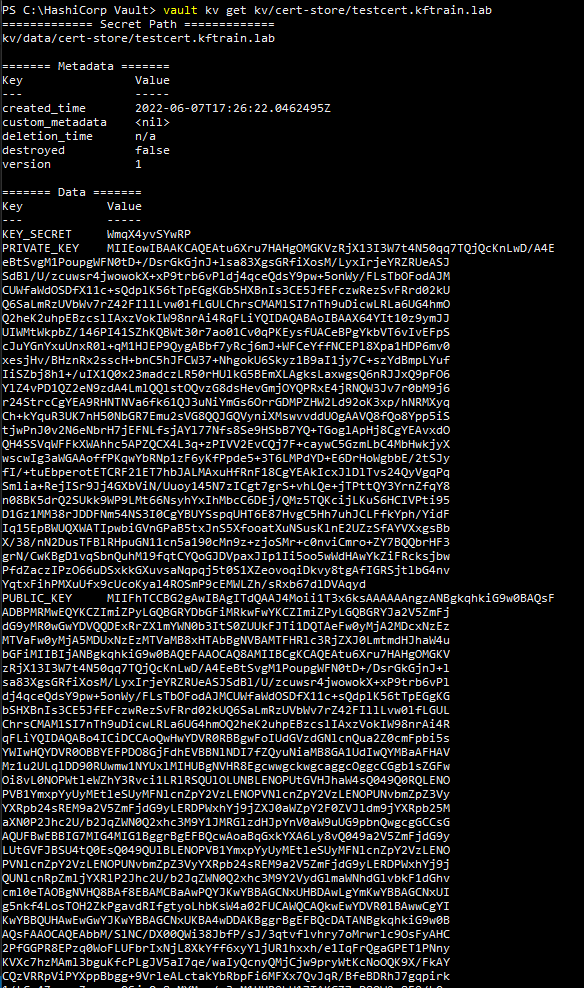
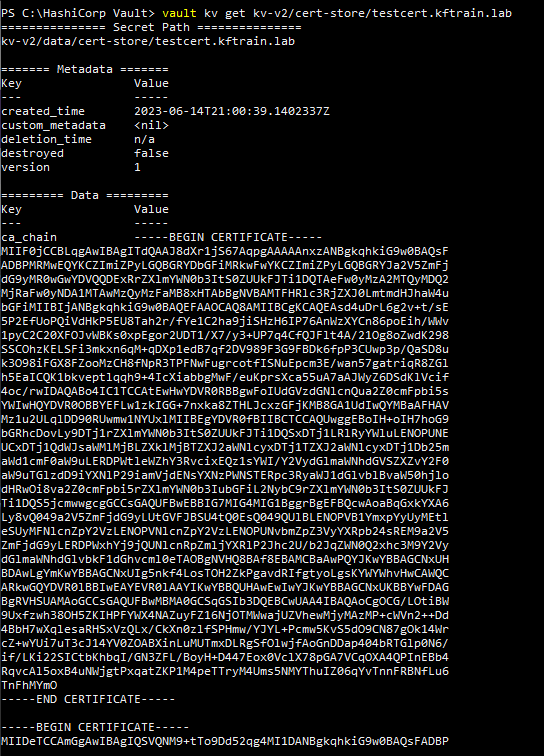
Updated property names.  now including full chain in ca_chain field.

diff --git a/hashicorp-vault-orchestrator/HcvKeyValueClient.cs b/hashicorp-vault-orchestrator/HcvKeyValueClient.cs
@@ -86,7 +86,7 @@ namespace Keyfactor.Extensions.Orchestrator.HashicorpVault
             Dictionary<string, object> certData;
             Secret<SecretData> res;
             var fullPath = _storePath + key;
-            var relativePath = fullPath.Substring(_storePath.Length);
+            //var relativePath = fullPath.Substring(_storePath.Length);
             try
             {
                 try
@@ -102,7 +102,7 @@ namespace Keyfactor.Extensions.Orchestrator.HashicorpVault
                 }
                 catch (Exception ex)
                 {
-                    logger.LogWarning($"Error getting certificate (deleted?) {fullPath}", ex);
+                    logger.LogError($"Error getting certificate {fullPath}", ex);
                     return null;
                 }
 
@@ -116,42 +116,45 @@ namespace Keyfactor.Extensions.Orchestrator.HashicorpVault
 
             try
             {
-                string publicKey;
-                bool hasPrivateKey;
+                string certificate = null;
+                string caChain = "";
 
-                //Validates if the "PUBLIC_KEY" and "PRIVATE_KEY" keys exist in certData
-                if (certData.TryGetValue("PUBLIC_KEY", out object publicKeyObj))
+                //Validates if the "certificate" and "private_key" keys exist in certData
+                if (certData.TryGetValue("certificate", out object publicKeyObj))
                 {
-                    publicKey = publicKeyObj?.ToString();
+                    certificate = publicKeyObj as string;
+                }
+
+                var certs = new List<string>() { certificate };
+
+                certData.TryGetValue("private_key", out object privateKeyObj);            
+
+                if (certData.TryGetValue("ca_chain", out object caChainObj))
+                {
+                    caChain = caChainObj?.ToString();
+                }
+
+                certData.TryGetValue("revocation_time", out object revocationTime);
+
+                certs = !string.IsNullOrEmpty(caChain) ? caChain.Split(new string[] { "\n\n" }, StringSplitOptions.RemoveEmptyEntries).ToList() : certs;
+
+                // if the certs have not been revoked, include them
+
+                if (!string.IsNullOrEmpty(certificate) && (revocationTime == null || revocationTime.Equals(0)))
+                {
+                    return new CurrentInventoryItem()
+                    {
+                        Alias = key,
+                        PrivateKeyEntry = privateKeyObj != null,
+                        ItemStatus = OrchestratorInventoryItemStatus.Unknown,
+                        UseChainLevel = true,
+                        Certificates = certs
+                    };
                 }
                 else
                 {
-                    publicKey = null;
+                    return null;
                 }
-
-                if (certData.TryGetValue("PRIVATE_KEY", out object privateKeyObj))
-                {
-                    hasPrivateKey = true;
-                }
-                else
-                {
-                    hasPrivateKey = false;
-                }
-
-                var certs = new List<string>() { publicKey };
-
-                var keys = certData.Keys.Where(k => k.StartsWith("PUBLIC_KEY_")).ToList();
-
-                keys.ForEach(k => certs.Add(certData[k].ToString()));
-
-                return new CurrentInventoryItem()
-                {
-                    Alias = relativePath,
-                    PrivateKeyEntry = hasPrivateKey,
-                    ItemStatus = OrchestratorInventoryItemStatus.Unknown,
-                    UseChainLevel = true,
-                    Certificates = certs.ToArray()
-                };
             }
             catch (Exception ex)
             {
@@ -190,7 +193,7 @@ namespace Keyfactor.Extensions.Orchestrator.HashicorpVault
         {
             VaultClient.V1.Auth.ResetVaultToken();
 
-            var certDict = new Dictionary<string, string>();
+            var certDict = new Dictionary<string, object>();
 
             var pfxBytes = Convert.FromBase64String(contents);
             Pkcs12Store p;
@@ -250,21 +253,13 @@ namespace Keyfactor.Extensions.Orchestrator.HashicorpVault
 
             try
             {
-                certDict.Add("PRIVATE_KEY", privateKeyString);
-                certDict.Add("PUBLIC_KEY", pubCertPem);
+                certDict.Add("private_key", privateKeyString);
+                certDict.Add("certificate", pubCertPem);
+                certDict.Add("revocation_time", 0);
 
                 if (includeChain)
                 {
-                    var i = 1;
-                    pemChain.ForEach(pc =>
-                    {
-                        if (pc != pubCertPem)
-                        {
-                            certDict.Add($"PUBLIC_KEY_{i}", pc);
-                            i++;
-                        }
-                    });
-
+                    certDict.Add("ca_chain", String.Join("\n\n", pemChain));
                 }
             }
             catch (Exception ex)

diff --git a/hashicorp-vault-orchestrator/HcvKeyfactorClient.cs b/hashicorp-vault-orchestrator/HcvKeyfactorClient.cs
@@ -55,28 +55,33 @@ namespace Keyfactor.Extensions.Orchestrator.HashicorpVault
                     req.Method = WebRequestMethods.Http.Get;
                     var res = await req.GetResponseAsync();
                     CertResponse content = JsonConvert.DeserializeObject<CertResponse>(new StreamReader(res.GetResponseStream()).ReadToEnd());
-                    string cert;
-                    content.data.TryGetValue("certificate", out cert);
+                    
+                    content.data.TryGetValue("certificate", out object cert);                                        
+                    content.data.TryGetValue("ca_chain", out object caChain);                                        
+                    content.data.TryGetValue("private_key", out object privateKey);                                        
+                    content.data.TryGetValue("revocation_time", out object revokeTime);
 
-                    string issuingCA;
-                    content.data.TryGetValue("issuing_ca", out issuingCA);
+                    List<string> certList = new List<string>() { cert as string };
 
-                    string privateKey;
-                    content.data.TryGetValue("private_key", out privateKey);
+                    // if the chain is available, include all certs
 
-                    string revokeTime;
-                    content.data.TryGetValue("revocation_time", out revokeTime);
-                                        
+                    if (!string.IsNullOrEmpty(caChain as string))
+                    {
+                        string fullChain = caChain.ToString();
+                        certList = fullChain.Split(new string[] { "\n\n" }, StringSplitOptions.RemoveEmptyEntries).ToList();
+                    }
+                    
+                    // don't include them in inventory unless they haven't been revoked
 
-                    if (revokeTime.Equals("0"))
+                    if (revokeTime == null || revokeTime.Equals(0))
                     {
                         var inventoryItem = new CurrentInventoryItem()
                         {
                             Alias = key,
-                            Certificates = new string[] { cert },
+                            Certificates = certList,
                             ItemStatus = OrchestratorInventoryItemStatus.Unknown,
-                            PrivateKeyEntry = !string.IsNullOrEmpty(privateKey),
-                            UseChainLevel = !string.IsNullOrEmpty(issuingCA),
+                            PrivateKeyEntry = !string.IsNullOrEmpty(privateKey as string),
+                            UseChainLevel = !string.IsNullOrEmpty(caChain as string),
                         };
                         return inventoryItem;
                     }
@@ -84,13 +89,13 @@ namespace Keyfactor.Extensions.Orchestrator.HashicorpVault
                 }
                 catch (Exception ex)
                 {
-                    logger.LogWarning("Error getting certificate (deleted?)", ex);
+                    logger.LogWarning($"Error getting certificate \"{fullPath}\" from Vault", ex);
                     return null;
                 }
             }
             catch (Exception ex)
             {
-                logger.LogError("Error getting certificate from Vault", ex);
+                logger.LogError($"Error getting certificate \"{fullPath}\" from Vault", ex);
                 throw;
             }
         }
@@ -153,7 +158,7 @@ namespace Keyfactor.Extensions.Orchestrator.HashicorpVault
 
         public class CertResponse : HashiResponse
         {
-            public Dictionary<string, string> data { get; set; }
+            public Dictionary<string, object> data { get; set; }
         }
 
         public class ListResponse : HashiResponse

diff --git a/readme_source.md b/readme_source.md
@@ -38,11 +38,12 @@ This integration was built on the .NET Core 3.1 target framework and are compati
 
 1. For the Key-Value secrets engine, the certificates are stored as an entry with these fields.  
 
-- `PUBLIC_KEY` - The certificate public key
-- `PUBLIC_KEY_<n>` - The nth certificate in the chain
-- `PRIVATE_KEY` - The certificate private key
+- `certificate` - The PEM formatted certificate
+- `ca_chain` - The full certificate authority chain, including the certificate
+- `private_key` - The certificate private key
+- `revocation_time` - a value other than "0" indicates the time that a certificate was revoked.
 
-**Note**: Key/Value secrets that do not include these keys (PUBLIC_KEY, and PRIVATE_KEY), will be ignored during inventory scans. 
+**Note**: Key/Value secrets that do not include the keys `certificate` and `private_key` will be ignored during inventory scans. 
 
 ## Extension Configuration
 
